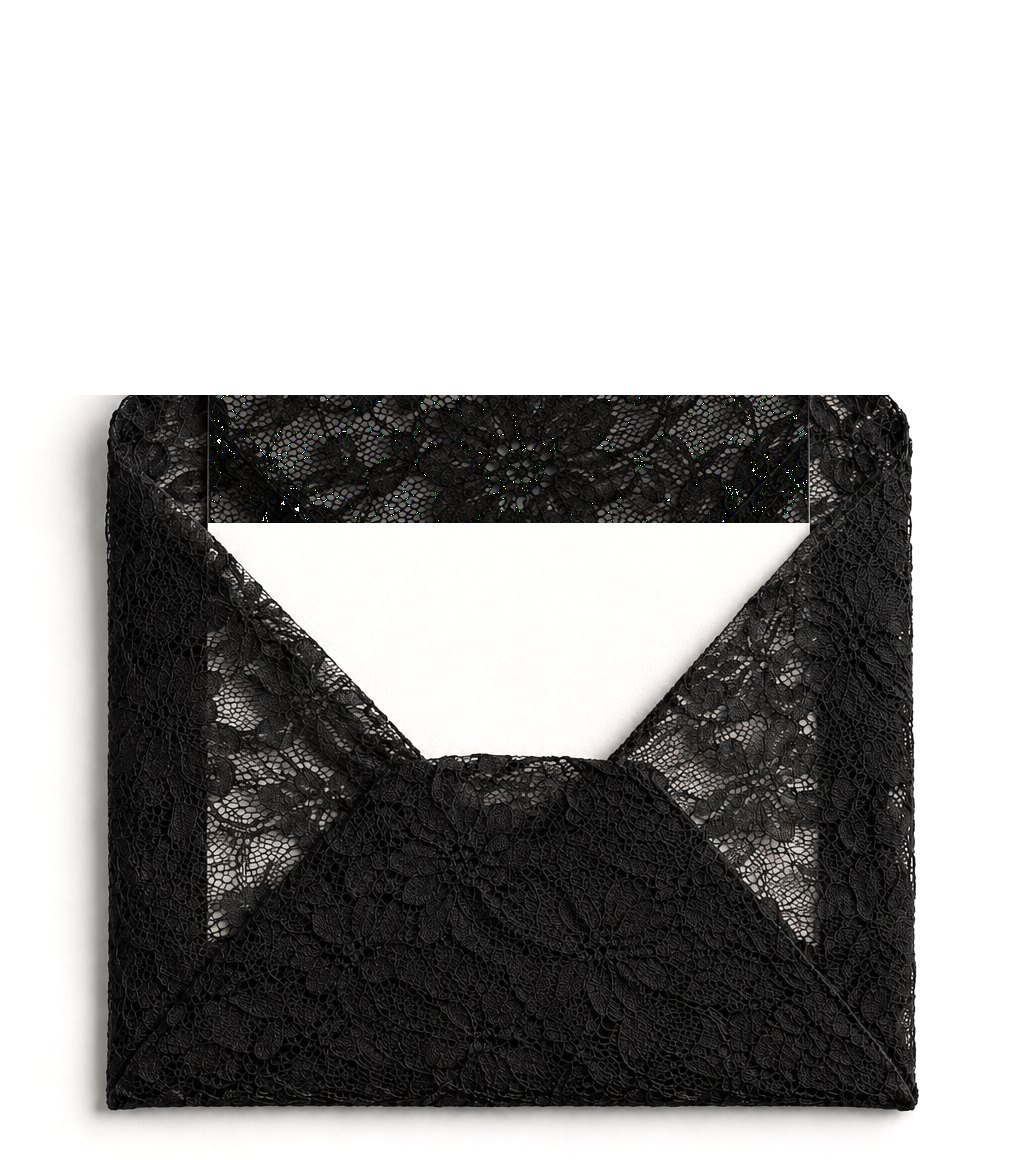
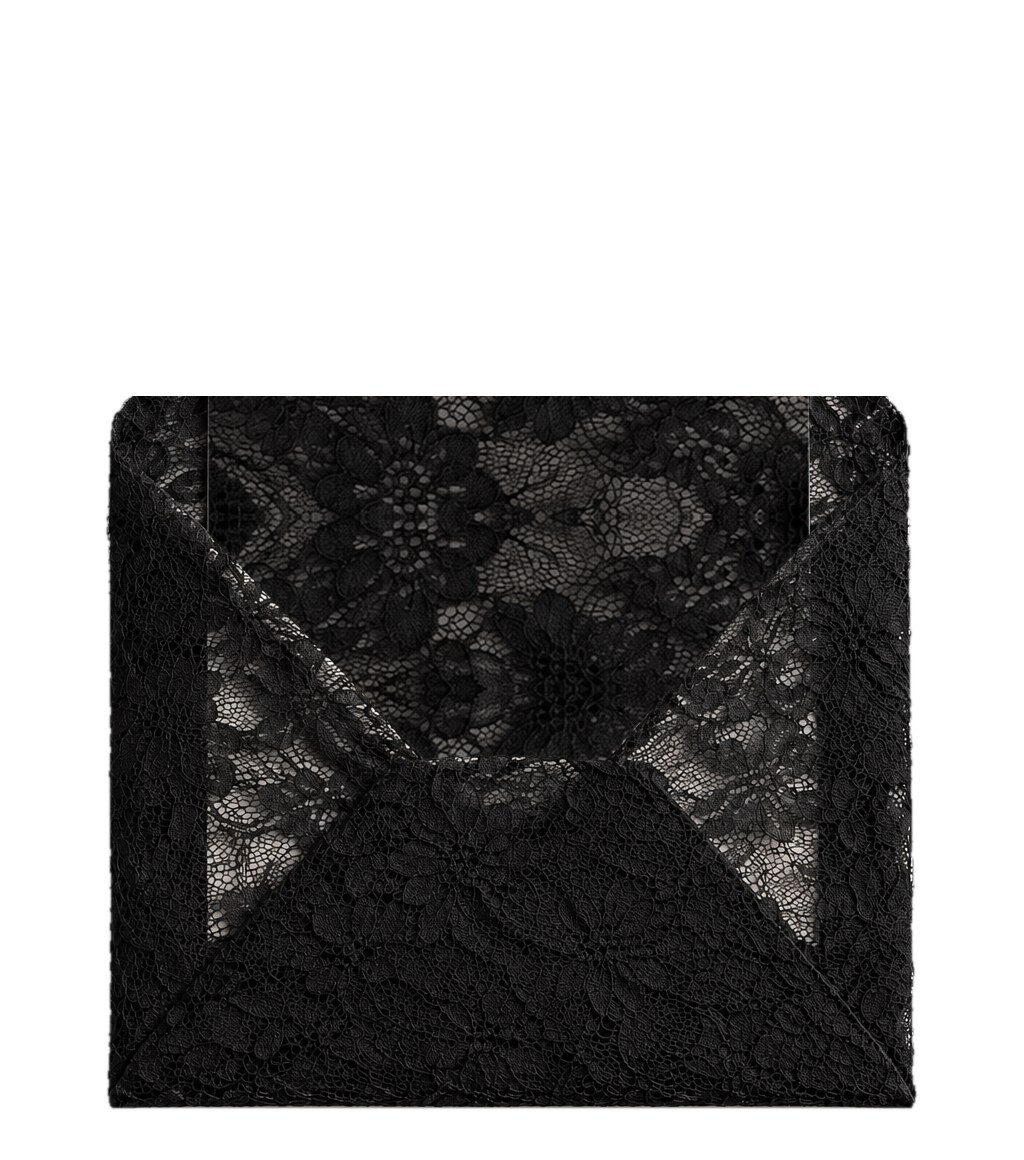
Contact: кнопка справа, Artworks по центру; конверт из одного фото без тени, меньше и плавнее
Claude-Session: https://claude.ai/code/session_01LYopNMUJqxAnWAFR9yrdhg

Changed region(s): [[0.1875, 0.3414, 0.8125, 0.6828], [0.0625, 0.3414, 0.9062, 0.9931]]

diff --git a/index.html b/index.html
@@ -19,6 +19,9 @@ a{color:inherit;text-decoration:none}
 /* меню как у Olga Minina: имя и пункты в квадратных скобках сверху справа от него */
 .top{position:relative;z-index:2;padding:28px var(--m);display:flex;align-items:flex-start;gap:6px;flex-wrap:wrap}
 .big{margin-left:auto}
+/* Artworks по центру шапки, Contact в правом углу */
+.mid{position:absolute;left:50%;transform:translateX(-50%)}
+@media (max-width:760px){.mid{position:static;transform:none;margin-left:auto}.mid+.big{margin-left:14px}}
 .brand{transition:filter .25s,opacity .25s;font:400 clamp(32px,4vw,56px)/1 "Inter",Helvetica,sans-serif;letter-spacing:-.02em}
 .top nav{display:flex;gap:14px;font-size:13px;letter-spacing:.02em;text-transform:uppercase;padding-top:2px}
 .top nav a{transition:filter .25s,opacity .25s}
@@ -89,7 +92,7 @@ a{color:inherit;text-decoration:none}
 
 /* страницы: главная и Artworks */
 .page{display:none}.page.on{display:flex}
-.big[aria-current]{text-decoration:underline;text-decoration-thickness:2px;text-underline-offset:6px}
+.top [aria-current]{text-decoration:underline;text-decoration-thickness:2px;text-underline-offset:6px}
 
 /* Artworks: названия списком по центру (Esther Ramon), рядом мелко тип и год (Coscia),
    при наведении превью у курсора (Korkunova), остальные бледнеют */
@@ -158,24 +161,23 @@ a{color:inherit;text-decoration:none}
 .book:focus{outline:none}
 .book canvas{position:absolute;left:-2%;top:-12%;width:104%;height:124%}
 
-/* Contact: белый экран, по центру кружевной конверт. Слои из двух фото (contact/build.py):
-   верхний клапан закрытого конверта откидывается вверх, на его месте раскрывается клапан открытого, лист чуть выезжает */
+/* Contact: белый экран, по центру кружевной конверт. Слои из одного фото (contact/build.py), поэтому кружево не меняется:
+   клапан лежит сложенным на конверте (тот же клапан, повёрнутый на 180° вокруг сгиба), плавно поднимается, потом лист выезжает */
 body:has(#contact.on){--paper:#fff;--ink:#111}
 .contact.on{display:grid;place-items:center;padding:0 var(--m) var(--m);min-height:0;container-type:size}
-.env{position:relative;width:min(100cqw,100cqh*1024/1160);aspect-ratio:1024/1160;perspective:1800px}
+.env{position:relative;width:min(72cqw,72cqh*1024/1160);aspect-ratio:1024/1160;perspective:2400px}
 .env:not(.go){visibility:hidden}
 .env img{position:absolute;inset:0;width:100%;height:100%;display:block}
-.env .slot{position:absolute;inset:0;clip-path:polygon(20.02% -12.93%,20.12% 31.29%,20.90% 46.29%,21.68% 47.07%,22.46% 47.76%,23.24% 48.45%,24.02% 49.22%,24.80% 49.91%,25.59% 50.60%,26.37% 51.47%,27.15% 52.07%,27.93% 52.84%,28.71% 53.53%,29.49% 54.22%,30.27% 54.91%,31.05% 55.60%,31.84% 56.38%,32.62% 57.07%,33.40% 57.84%,34.18% 58.45%,34.96% 59.22%,35.74% 59.91%,36.52% 60.69%,37.30% 61.47%,38.09% 62.16%,38.87% 62.93%,39.65% 63.62%,40.43% 64.40%,41.21% 65.09%,41.99% 65.34%,42.77% 65.34%,43.55% 65.09%,44.34% 65.09%,45.12% 65.17%,45.90% 65.09%,46.68% 64.91%,47.46% 65.00%,48.24% 65.09%,49.02% 65.09%,49.80% 65.17%,50.59% 65.17%,51.37% 65.17%,52.15% 65.17%,52.93% 65.17%,53.71% 65.26%,54.49% 65.26%,55.27% 65.17%,56.05% 65.34%,56.84% 65.34%,57.62% 65.34%,58.40% 65.52%,59.18% 65.52%,59.96% 64.74%,60.74% 63.88%,61.52% 63.19%,62.30% 62.41%,63.09% 61.64%,63.87% 60.95%,64.65% 60.26%,65.43% 59.31%,66.21% 58.53%,66.99% 57.84%,67.77% 56.98%,68.55% 56.29%,69.34% 55.43%,70.12% 54.74%,70.90% 53.97%,71.68% 53.19%,72.46% 52.33%,73.24% 51.47%,74.02% 50.78%,74.80% 50.09%,75.59% 49.40%,76.37% 48.62%,77.15% 47.84%,77.93% 47.07%,78.71% 46.29%,79.10% 31.29%,79.20% -12.93%)}
-.env .f-open,.env .c-flap{transform-origin:50% 34.31%}
-.env .c-body,.env .c-flap{opacity:0}
-.env.go .c-flap{animation:c-flap .6s cubic-bezier(.55,0,.8,.3) .35s both}
-.env.go .f-open{animation:f-open .7s cubic-bezier(.2,.6,.35,1) .95s both}
-.env.go .c-body{animation:c-body .6s ease-in .35s both}
-.env.go .letter{animation:letter 1.1s cubic-bezier(.3,.7,.25,1) 1.45s both}
-/* ребром клапан виден как черта, поэтому в крайних точках он скрыт */
-@keyframes c-flap{0%{opacity:1;transform:none;filter:none}99%{opacity:1;transform:rotateX(89deg);filter:brightness(1.6)}100%{opacity:0;transform:rotateX(90deg)}}
-@keyframes f-open{0%{opacity:0;transform:rotateX(-90deg)}1%{opacity:1;transform:rotateX(-89deg);filter:brightness(1.6)}100%{opacity:1;transform:none;filter:none}}
-@keyframes c-body{from{opacity:1}to{opacity:0}}
+.env .slot{position:absolute;inset:0;clip-path:polygon(20.02% -12.93%,20.12% 31.29%,20.90% 46.29%,21.68% 47.07%,22.46% 47.67%,23.24% 48.45%,24.02% 49.22%,24.80% 49.91%,25.59% 50.60%,26.37% 51.38%,27.15% 52.07%,27.93% 52.76%,28.71% 53.53%,29.49% 54.22%,30.27% 54.91%,31.05% 55.52%,31.84% 56.38%,32.62% 56.98%,33.40% 57.84%,34.18% 58.45%,34.96% 59.22%,35.74% 59.91%,36.52% 60.69%,37.30% 61.47%,38.09% 62.16%,38.87% 62.93%,39.65% 63.62%,40.43% 64.40%,41.21% 65.09%,41.99% 65.34%,42.77% 65.34%,43.55% 65.09%,44.34% 65.09%,45.12% 65.17%,45.90% 65.09%,46.68% 64.91%,47.46% 65.00%,48.24% 65.09%,49.02% 65.09%,49.80% 65.17%,50.59% 65.17%,51.37% 65.17%,52.15% 65.17%,52.93% 65.17%,53.71% 65.26%,54.49% 65.26%,55.27% 65.17%,56.05% 65.34%,56.84% 65.34%,57.62% 65.34%,58.40% 65.52%,59.18% 65.52%,59.96% 64.57%,60.74% 63.71%,61.52% 63.19%,62.30% 62.24%,63.09% 61.47%,63.87% 60.95%,64.65% 60.17%,65.43% 59.31%,66.21% 58.53%,66.99% 57.84%,67.77% 56.98%,68.55% 56.12%,69.34% 55.43%,70.12% 54.74%,70.90% 53.97%,71.68% 53.19%,72.46% 52.33%,73.24% 51.47%,74.02% 50.78%,74.80% 50.09%,75.59% 49.40%,76.37% 48.62%,77.15% 47.84%,77.93% 46.98%,78.71% 46.29%,79.10% 31.29%,79.20% -12.93%)}
+.env .fd,.env .fu{transform-origin:50% 34.31%}
+.env .fd{opacity:0}
+/* клапан идёт одним движением: до вертикали он поверх листа (fd), после — под ним (fu); ребром не виден */
+.env.go .fd{animation:fd 1.3s cubic-bezier(.4,0,.8,.6) .5s both}
+.env.go .fu{animation:fu 1.3s cubic-bezier(.2,.4,.6,1) 1.8s both}
+.env.go .letter{animation:l-in .6s linear .5s both,letter 1.9s cubic-bezier(.35,0,.15,1) 2.6s both}
+@keyframes fd{0%{opacity:1;transform:rotateX(180deg)}99%{opacity:1;transform:rotateX(91deg)}100%{opacity:0;transform:rotateX(90deg)}}
+@keyframes fu{0%{opacity:0;transform:rotateX(90deg)}1%{opacity:1;transform:rotateX(89deg)}100%{opacity:1;transform:none}}
+@keyframes l-in{from{opacity:0}to{opacity:1}}
 @keyframes letter{from{transform:translateY(11.21%)}to{transform:none}}
 @media (prefers-reduced-motion:reduce){.env.go *{animation:none!important}}
 </style>
@@ -183,8 +185,9 @@ body:has(#contact.on){--paper:#fff;--ink:#111}
 <body>
 <header class="top">
   <a class="brand" href="#/">Natalia Makienko</a>
-  <nav><a href="#">[ about ]</a><a href="#/contact">[ contact ]</a></nav>
-  <a class="brand big" href="#/artworks">Artworks</a>
+  <nav><a href="#">[ about ]</a></nav>
+  <a class="brand mid" href="#/artworks">Artworks</a>
+  <a class="brand big" href="#/contact">Contact</a>
 </header>
 
 <main class="page" id="home" aria-label="Главная">
@@ -228,9 +231,9 @@ body:has(#contact.on){--paper:#fff;--ink:#111}
 
 <main class="contact page" id="contact" aria-label="Contact">
   <div class="env" id="env" role="img" aria-label="Кружевной конверт открывается, из него выглядывает лист">
-    <img src="contact/base.jpg" alt=""><img class="f-open" src="contact/flap-open.webp" alt="">
+    <img src="contact/base.jpg" alt=""><img class="fu" src="contact/flap.webp" alt="">
     <div class="slot"><img class="letter" src="contact/letter.webp" alt=""></div>
-    <img class="c-body" src="contact/closed-body.webp" alt=""><img class="c-flap" src="contact/closed-flap.webp" alt="">
+    <img class="fd" src="contact/flap.webp" alt="">
   </div>
 </main>
 
@@ -379,7 +382,8 @@ lb.onkeydown=e=>{if(e.key==="ArrowRight")document.getElementById("book").go(1);i
 function route(){const h=location.hash,m=h.match(/^#\/work\/(\d+)$/),w=m&&WORKS[+m[1]];
   const id=w?"case":h==="#/artworks"?"artworks":h==="#/contact"?"contact":"home";
   for(const v of ["home","artworks","case","contact"])document.getElementById(v).classList.toggle("on",v===id);
-  document.querySelector(".big").toggleAttribute("aria-current",id==="artworks"||id==="case");
+  document.querySelector(".mid").toggleAttribute("aria-current",id==="artworks"||id==="case");
+  document.querySelector(".big").toggleAttribute("aria-current",id==="contact");
   // конверт открывается при каждом заходе, но только когда все слои загружены
   const env=document.getElementById("env");env.classList.remove("go");
   if(id==="contact")Promise.all([...env.querySelectorAll("img")].map(i=>i.decode().catch(()=>{}))).then(()=>location.hash==="#/contact"&&env.classList.add("go"));

diff --git a/contact/build.py b/contact/build.py
@@ -1,102 +1,77 @@
-# Режет два фото конверта на слои для анимации страницы Contact.
-# Всё в координатах открытого фото (1024x1536), потом обрезка по Y0..Y1.
+# Режет фото открытого конверта на слои для анимации страницы Contact:
+#   python3 build.py <папка с open.png> <папка для слоёв>
+# Всё из одного фото, чтобы кружево не менялось: закрытый клапан — это тот же клапан,
+# повёрнутый на 180° вокруг сгиба. Фон и тень вокруг конверта убраны в чистый белый.
 import sys, numpy as np
-from PIL import Image, ImageDraw, ImageFilter
+from PIL import Image, ImageFilter
 
 src, out = sys.argv[1], sys.argv[2]
-FOLD = 548          # линия сгиба клапана на открытом фото
+FOLD = 548          # линия сгиба клапана
 Y0, Y1 = 150, 1310  # кадр
 L, R, LT = 208, 808, 503  # лист: левый/правый край, верх
+D = 130             # насколько лист утоплен в начале
 
-def load(n): return np.asarray(Image.open(f"{src}/{n}.png").convert("RGB")).astype(float)
-
-def flatten(a):
-    # фон с виньеткой -> чисто белый: квадратичная поверхность по пикселям вне конверта
-    h, w, _ = a.shape
-    yy, xx = np.mgrid[0:h, 0:w]
-    m = np.ones((h, w), bool); m[120:1330, 60:960] = False
-    X = np.stack([np.ones_like(xx), xx, yy, xx*xx, yy*yy, xx*yy], -1)[m].astype(float) / 1.0
-    sc = np.array([1, w, h, w*w, h*h, w*h], float); X = X / sc
-    lum = a.mean(2)[m]
-    c, *_ = np.linalg.lstsq(X, lum, rcond=None)
-    F = (np.stack([np.ones_like(xx), xx, yy, xx*xx, yy*yy, xx*yy], -1) / sc) @ c
-    return np.clip(a * (259 / F)[..., None], 0, 255)
-
-op = flatten(load("open"))
-cl = flatten(load("closed"))
-
-# закрытый конверт подгоняем под открытый: верх 530->548, низ 1253->1259, x 107..918 -> 106..914
-ci = Image.fromarray(cl.astype(np.uint8))
-sx = (914 - 106) / (918 - 107); sy = (1259 - FOLD) / (1253 - 530)
-ox = 106 - 107 * sx; oy = FOLD - 530 * sy
-ci = ci.transform(ci.size, Image.AFFINE, (1 / sx, 0, -ox / sx, 0, 1 / sy, -oy / sy), Image.BICUBIC, fillcolor=(255, 255, 255))
-cl = np.asarray(ci).astype(float)
-apex = (513 * sx + ox, 970 * sy + oy)
-
-# лист: яркие пиксели в прямоугольнике листа, связные сверху
+op = np.asarray(Image.open(f"{src}/open.png").convert("RGB")).astype(float)
 lum = op.mean(2)
-bright = np.zeros(lum.shape, bool); bright[LT - 2:1000, L - 2:R + 3] = lum[LT - 2:1000, L - 2:R + 3] > 150
-bottom = np.zeros(1024, int)
-for x in range(L - 2, R + 3):
-    col = bright[:, x]; y = LT + 10
-    while y < 1000 and col[y]: y += 1
-    bottom[x] = y
-letter_mask = np.zeros(lum.shape, bool)
-for x in range(L - 2, R + 3):
-    if bottom[x] > LT + 20: letter_mask[LT - 2:bottom[x], x] = bright[LT - 2:bottom[x], x]
-lm = Image.fromarray((letter_mask * 255).astype(np.uint8)).filter(ImageFilter.MaxFilter(3)).filter(ImageFilter.GaussianBlur(.8))
+H, W = lum.shape
 
-# там, где был лист, кружево: берём кусок закрытого клапана, подгоняем тон под внутренность
-D = 130  # насколько лист утоплен в начале
-band = (L - 6, LT - 8, R + 6, LT + D + 40)
-patch = Image.fromarray(cl.astype(np.uint8)).crop((band[0], FOLD + 45, band[2], FOLD + 45 + band[3] - band[1]))
-pa = np.asarray(patch).astype(float)
-ref = op[600:700, 115:200]  # видимая внутренность слева от листа
-pa = (pa - pa.mean()) * (ref.std() / pa.std()) + ref.mean()
+# силуэт конверта: в каждой строке от первого до последнего тёмного пикселя (дырки кружева внутри заполняются)
+dark = lum < 95
+sil = np.zeros((H, W), bool)
+for y in range(H):
+    xs = np.where(dark[y])[0]
+    if len(xs) > 12: sil[y, xs.min():xs.max() + 1] = True
+silm = Image.fromarray((sil * 255).astype(np.uint8)).filter(ImageFilter.MinFilter(5)).filter(ImageFilter.GaussianBlur(.9))
+sa = np.asarray(silm).astype(float)[..., None] / 255
+# фон внутри силуэта (просветы кружева) выравниваем к белому, снаружи — чистый белый
+op = np.clip(op * 1.04, 0, 255) * sa + 255 * (1 - sa)
+
+# лист: яркие пиксели в его прямоугольнике, связные сверху; bottom — где лист уходит в карман
+bright = np.zeros((H, W), bool); bright[LT - 2:1000, L - 2:R + 3] = lum[LT - 2:1000, L - 2:R + 3] > 150
+bottom = np.zeros(W, int)
+for x in range(L - 2, R + 3):
+    y = LT + 10
+    while y < 1000 and bright[y, x]: y += 1
+    bottom[x] = y
+lmask = np.zeros((H, W), bool)
+for x in range(L - 2, R + 3):
+    if bottom[x] > LT + 20: lmask[LT - 2:bottom[x], x] = bright[LT - 2:bottom[x], x]
+lm = Image.fromarray((lmask * 255).astype(np.uint8)).filter(ImageFilter.MaxFilter(3)).filter(ImageFilter.GaussianBlur(.8))
+
+# под листом — кружево этого же клапана (кусок над листом), притенённое: это глубина конверта.
+# Кусок отражаем по вертикали плиткой, чтобы закрыть всё место листа до кармана
+bx0, by0, bx1, by1 = L - 6, LT - 8, R + 6, 912
+tile = Image.fromarray(op.astype(np.uint8)).crop((300, 382, 720, 500)).resize((bx1 - bx0, 172), Image.LANCZOS)
+tile = np.asarray(tile).astype(float) * .55
+reps = [tile[::-1] if i % 2 == 0 else tile for i in range((by1 - by0) // 172 + 1)]
+patch = np.concatenate(reps)[:by1 - by0]
+w = np.asarray(lm.crop((bx0, by0, bx1, by1))).astype(float)[..., None] / 255
 nol = op.copy()
-bh = band[3] - band[1]; bw = band[2] - band[0]
-fe = np.ones((bh, bw)); r = 10
-ramp = np.minimum(np.arange(bh)[:, None], np.arange(bh)[::-1, None]).clip(0, r) / r
-fe = np.minimum(fe, ramp)
-fe = np.minimum(fe, (np.minimum(np.arange(bw), np.arange(bw)[::-1]).clip(0, r) / r)[None])
-reg = nol[band[1]:band[3], band[0]:band[2]]
-# внутри листа заменяем полностью, на краях сглаживаем
-inner = np.asarray(lm.crop(band)).astype(float)[..., None] / 255
-w = np.maximum(inner, fe[..., None] * 0)  # только там, где лист
-nol[band[1]:band[3], band[0]:band[2]] = reg * (1 - w) + pa * w
-# ниже полосы лист остаётся (его закроет слой листа), но пусть там тоже кружево — на случай щелей
+nol[by0:by1, bx0:bx1] = nol[by0:by1, bx0:bx1] * (1 - w) + patch * w
+# клапан за листом (между верхом листа и сгибом) — отражение кружева над листом, сжатое к центру,
+# чтобы в закрытом виде клапан был сплошным кружевом без следа листа
+fl = op.copy()
+ys = np.arange(by0, FOLD + 4); xs = np.arange(bx0, bx1)
+sy = (2 * (LT - 9) - ys).clip(0); sx = (512 + (xs - 512) * .85).astype(int)
+wf = np.asarray(lm.crop((bx0, by0, bx1, FOLD + 4))).astype(float)[..., None] / 255
+fl[by0:FOLD + 4, bx0:bx1] = fl[by0:FOLD + 4, bx0:bx1] * (1 - wf) + op[sy][:, sx] * wf
+flI = Image.fromarray(fl.astype(np.uint8))
 nolI = Image.fromarray(nol.astype(np.uint8))
 
-def poly_mask(pts):
-    m = Image.new("L", (1024, 1536), 0); ImageDraw.Draw(m).polygon(pts, fill=255); return m
+white = Image.new("RGB", (W, H), (255, 255, 255))
+below = np.zeros((H, W), np.uint8); below[FOLD - 2:] = 255
+above = np.zeros((H, W), np.uint8); above[:FOLD + 3] = 255
+flapA = Image.fromarray(np.minimum(above, (sa[..., 0] * 255).astype(np.uint8)))
 
-def rgba(img, mask):
-    im = img.copy().convert("RGBA"); im.putalpha(mask); return im
-
-full = Image.new("L", (1024, 1536), 255)
-flap_open = poly_mask([(96, FOLD + 4), (512, 170), (928, FOLD + 4)])
-below = poly_mask([(0, FOLD - 3), (1024, FOLD - 3), (1024, 1536), (0, 1536)])
-cflap = poly_mask([(100, FOLD - 4), (924, FOLD - 4), (apex[0], apex[1] + 6)])
-cbody = Image.fromarray(np.minimum(np.asarray(below), 255 - np.asarray(cflap)).astype(np.uint8))
-
-# 1 основа: открытый конверт без листа и без клапана (над сгибом белый фон)
-base = Image.composite(nolI, Image.new("RGB", (1024, 1536), (255, 255, 255)), below)
-# лист с загнутой по краям тенью не нужен — берём как есть
-letter = rgba(Image.fromarray(op.astype(np.uint8)), lm)
-layers = {
-    "base": base.convert("RGBA"),
-    "flap-open": rgba(nolI, flap_open.filter(ImageFilter.GaussianBlur(.7))),
-    "letter": letter,
-    "closed-body": rgba(Image.fromarray(cl.astype(np.uint8)), cbody.filter(ImageFilter.GaussianBlur(.7))),
-    "closed-flap": rgba(Image.fromarray(cl.astype(np.uint8)), cflap.filter(ImageFilter.GaussianBlur(.7))),
-}
-for k, im in layers.items():
-    im = im.crop((0, Y0, 1024, Y1))
-    if k == "base": im.convert("RGB").save(f"{out}/{k}.jpg", quality=86)
-    else: im.save(f"{out}/{k}.webp", quality=86, method=6)
+base = Image.composite(nolI, white, Image.fromarray(below))
+flap = flI.convert("RGBA"); flap.putalpha(flapA)
+letter = Image.fromarray(op.astype(np.uint8)).convert("RGBA"); letter.putalpha(lm)
+base.crop((0, Y0, W, Y1)).save(f"{out}/base.jpg", quality=88)
+for k, im in {"flap": flap, "letter": letter}.items():
+    im.crop((0, Y0, W, Y1)).save(f"{out}/{k}.webp", quality=88, method=6)
 
 # граница кармана для clip-path листа, в % кадра
-H = Y1 - Y0
+h = Y1 - Y0
 pts = [(L - 3, 0)] + [(x, bottom[x]) for x in range(L - 2, R + 3, 8)] + [(R + 2, bottom[R + 2]), (R + 3, 0)]
-print("clip", ",".join(f"{x/1024*100:.2f}% {(y-Y0)/H*100:.2f}%" for x, y in pts))
-print("fold %", (FOLD - Y0) / H * 100, "D %", D / H * 100, "apex", apex)
+print("clip", ",".join(f"{x/W*100:.2f}% {(y-Y0)/h*100:.2f}%" for x, y in pts))
+print("fold %", (FOLD - Y0) / h * 100, "D %", D / h * 100)
